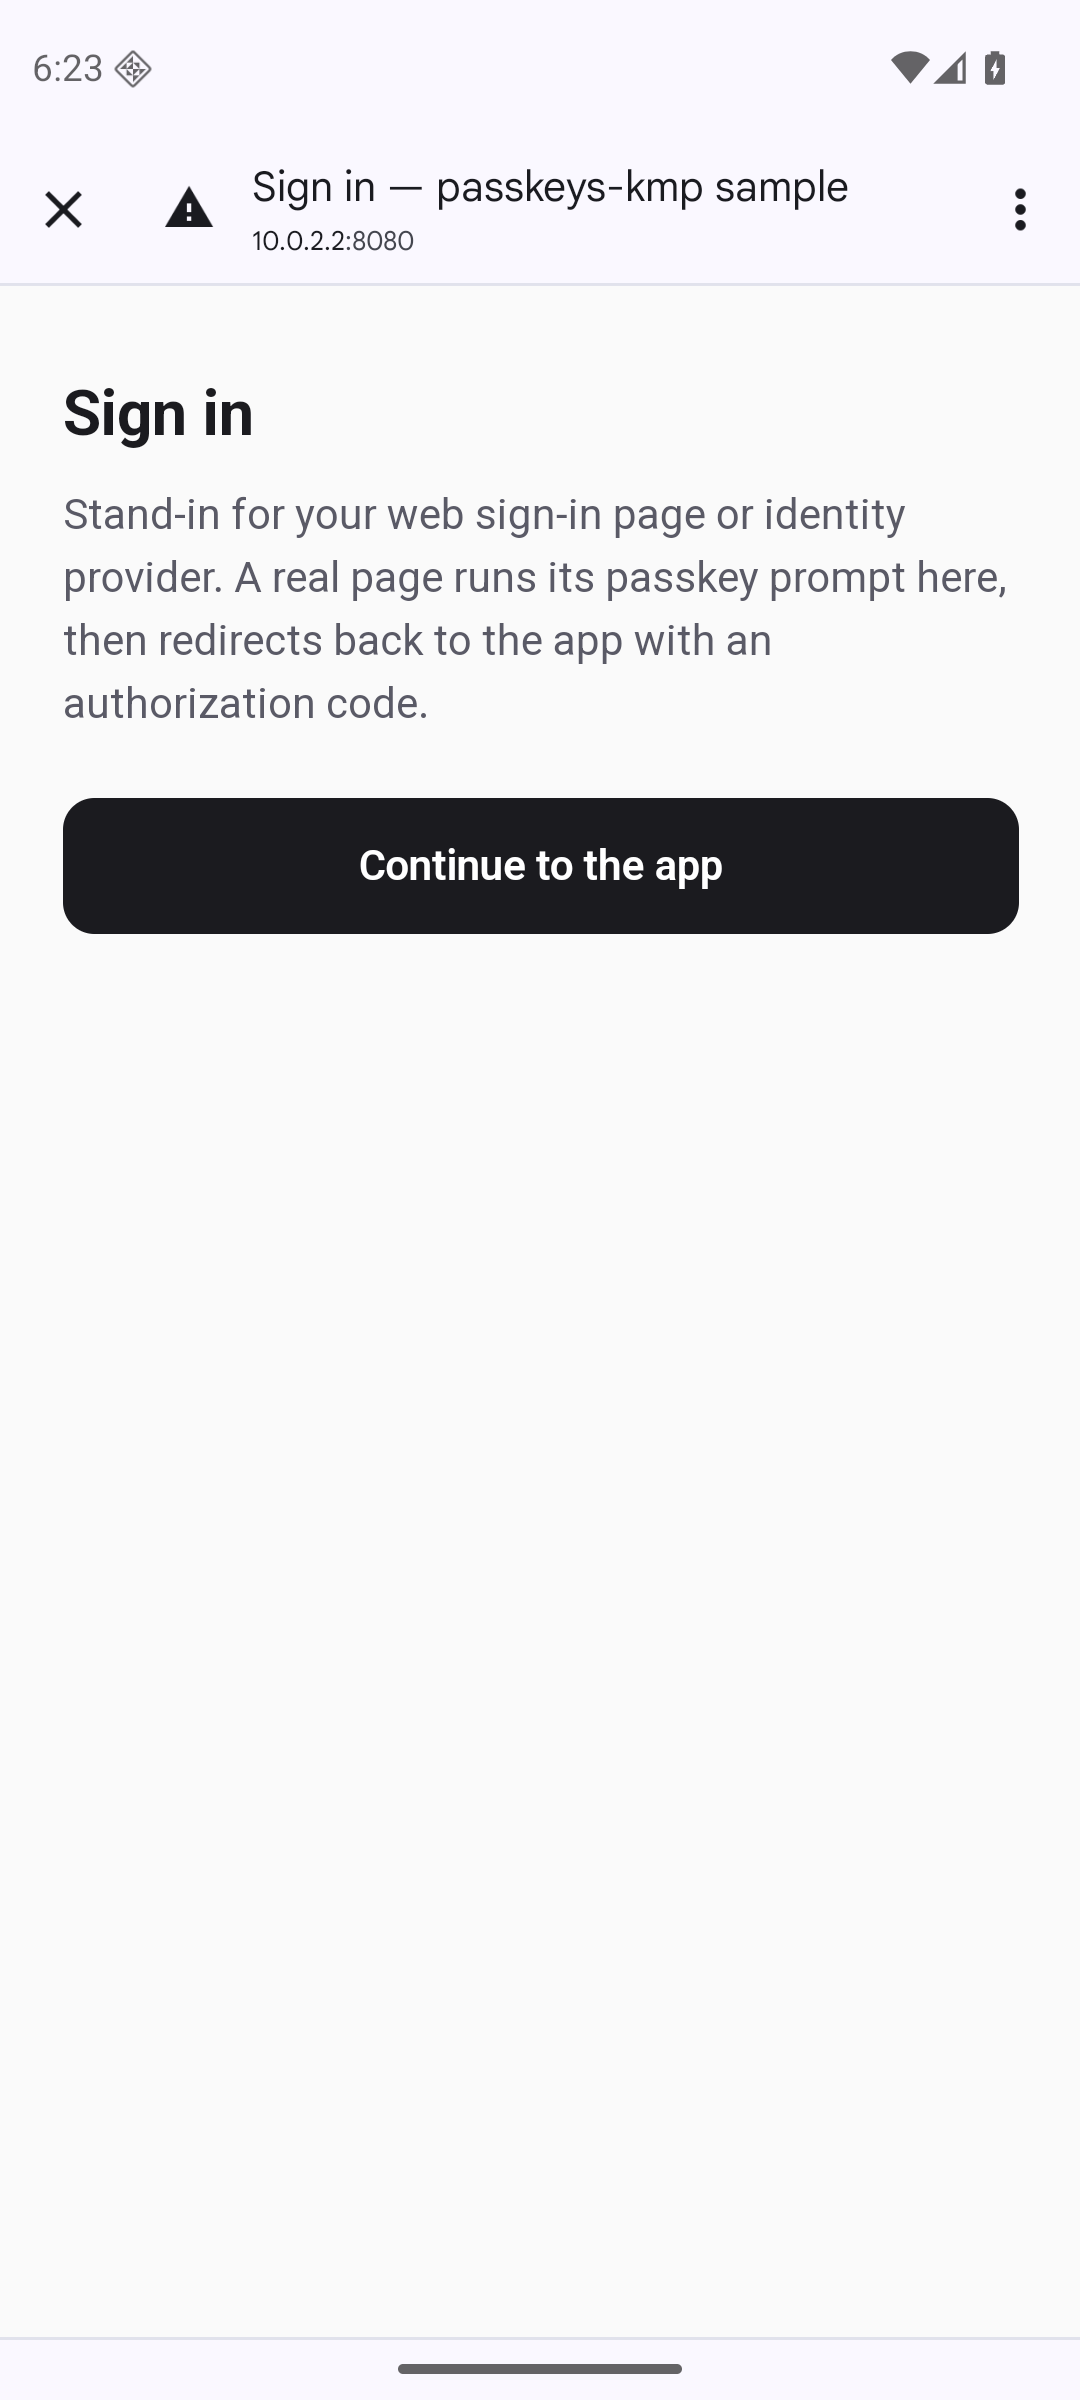
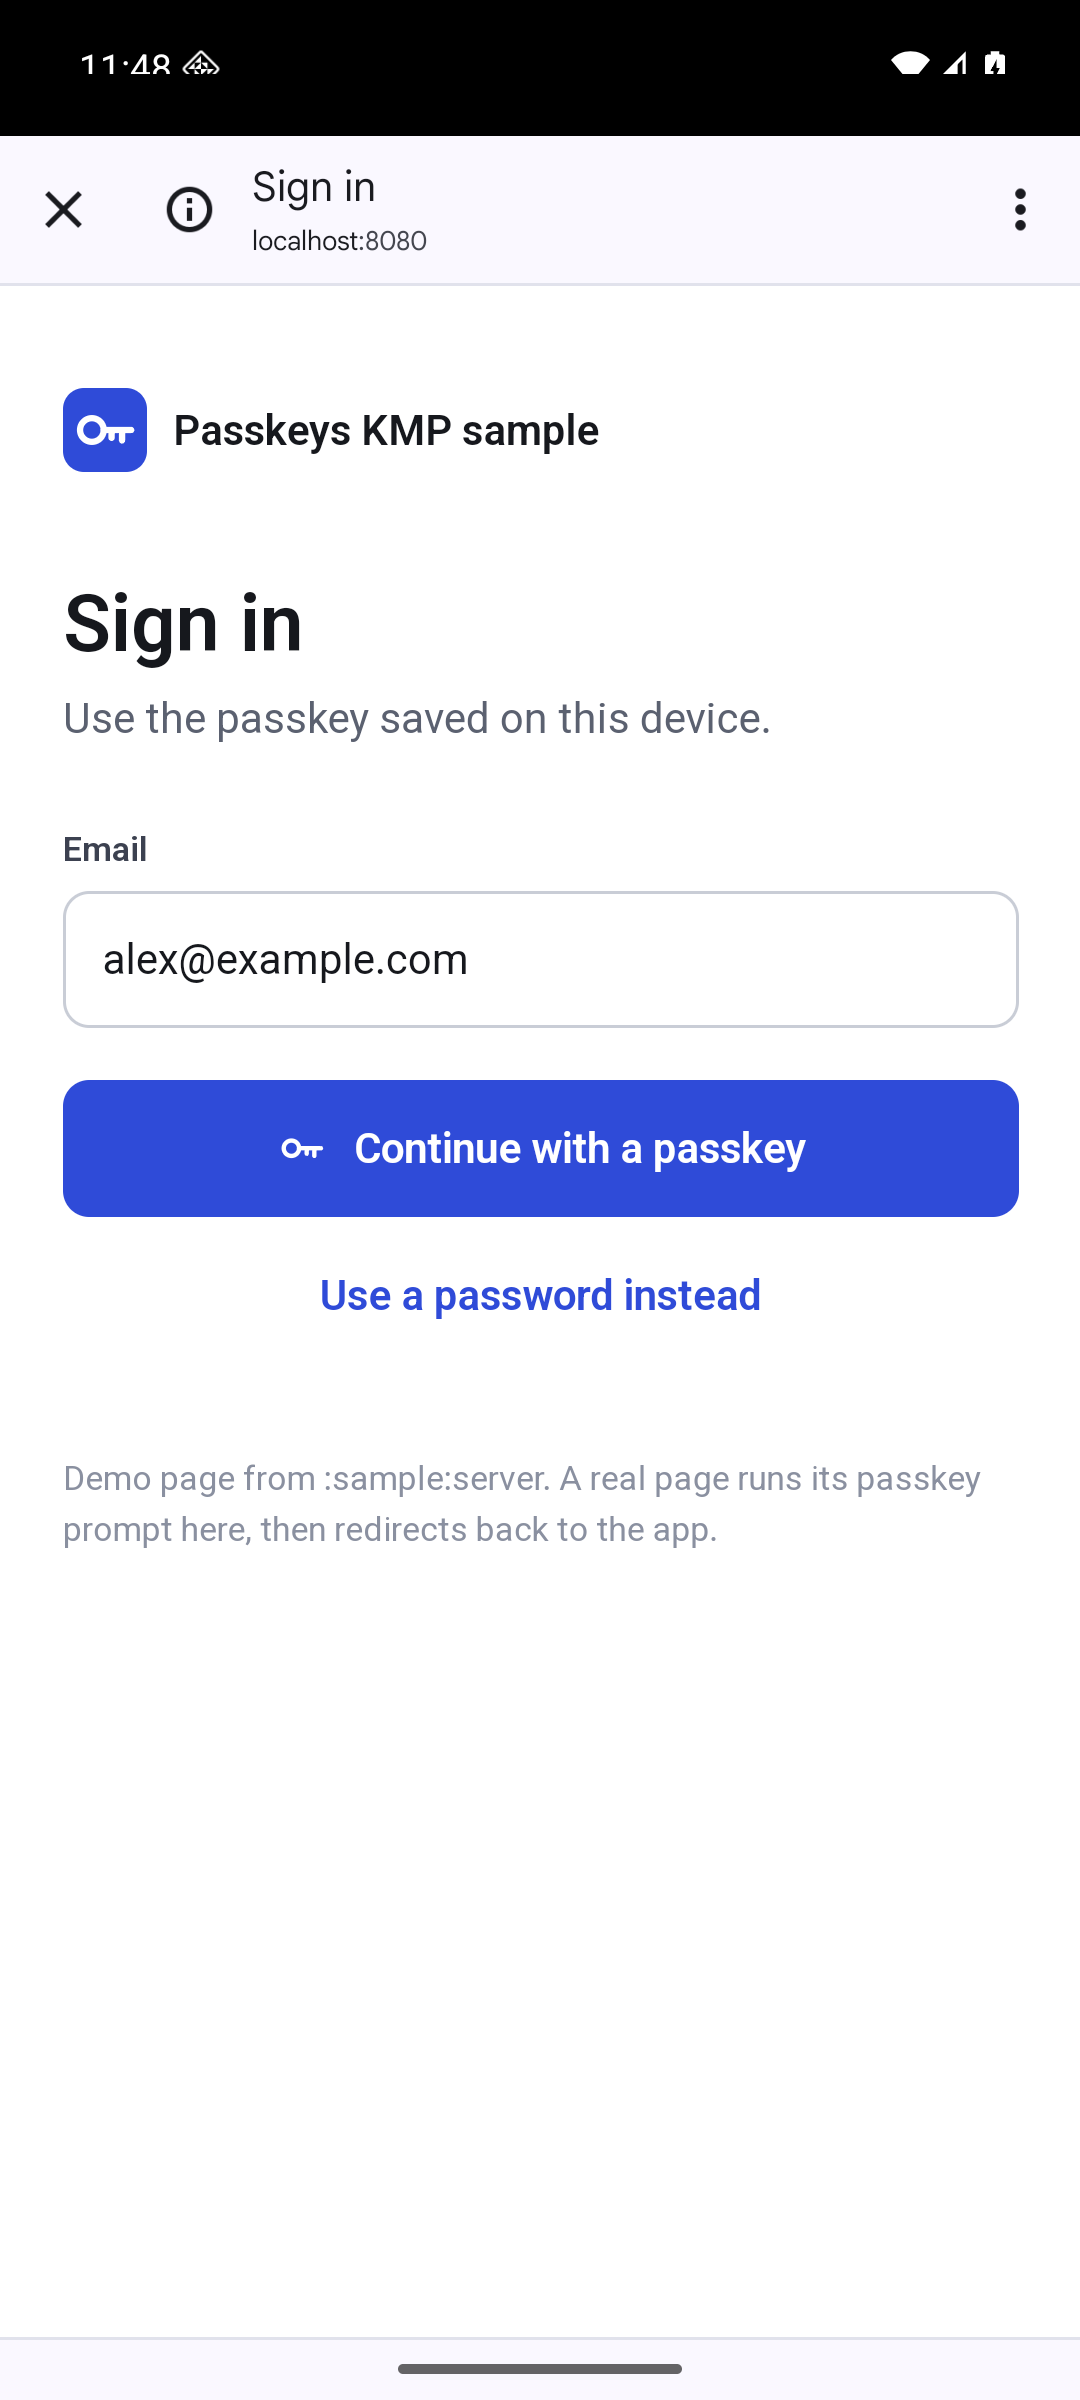
sample: realistic sign-in page, full-screen WebView demo, clearer screenshots

diff --git a/sample/composeApp/src/androidMain/kotlin/io/github/androidpoet/passkeys/composeapp/WebDemos.android.kt b/sample/composeApp/src/androidMain/kotlin/io/github/androidpoet/passkeys/composeapp/WebDemos.android.kt
@@ -4,33 +4,44 @@ import android.annotation.SuppressLint
 import android.webkit.WebView
 import android.webkit.WebViewClient
 import androidx.activity.ComponentActivity
+import androidx.compose.foundation.layout.Column
+import androidx.compose.foundation.layout.Row
+import androidx.compose.foundation.layout.fillMaxSize
 import androidx.compose.foundation.layout.fillMaxWidth
-import androidx.compose.foundation.layout.height
+import androidx.compose.foundation.layout.padding
+import androidx.compose.foundation.layout.safeDrawingPadding
 import androidx.compose.material3.Button
+import androidx.compose.material3.HorizontalDivider
 import androidx.compose.material3.MaterialTheme
+import androidx.compose.material3.Surface
 import androidx.compose.material3.Text
+import androidx.compose.material3.TextButton
 import androidx.compose.runtime.Composable
 import androidx.compose.runtime.getValue
 import androidx.compose.runtime.mutableStateOf
 import androidx.compose.runtime.remember
 import androidx.compose.runtime.setValue
+import androidx.compose.ui.Alignment
 import androidx.compose.ui.Modifier
 import androidx.compose.ui.platform.LocalContext
 import androidx.compose.ui.unit.dp
 import androidx.compose.ui.viewinterop.AndroidView
+import androidx.compose.ui.window.Dialog
+import androidx.compose.ui.window.DialogProperties
 import io.github.androidpoet.passkeys.PasskeyResult
 import io.github.androidpoet.passkeys.authsession.AndroidWebAuthSession
 import io.github.androidpoet.passkeys.authsession.WebAuthRedirect
 import io.github.androidpoet.passkeys.webview.enablePasskeys
 
-// 10.0.2.2 is the emulator's alias for the host machine running :sample:server.
-private const val SERVER = "http://10.0.2.2:8080"
+// Reach :sample:server on the host with `adb reverse tcp:8080 tcp:8080`. Localhost also
+// counts as a secure context, which WebAuthn requires.
+private const val SIGN_IN_URL = "http://localhost:8080/auth.html"
 
 @Composable
 actual fun rememberWebSignIn(): (suspend () -> PasskeyResult<String>)? {
     val activity = LocalContext.current as ComponentActivity
     val session = remember(activity) { AndroidWebAuthSession(activity) }
-    return { session.authenticate("$SERVER/auth.html", WebAuthRedirect.CustomScheme(AUTH_REDIRECT_SCHEME)) }
+    return { session.authenticate(SIGN_IN_URL, WebAuthRedirect.CustomScheme(AUTH_REDIRECT_SCHEME)) }
 }
 
 @SuppressLint("SetJavaScriptEnabled")
@@ -38,23 +49,46 @@ actual fun rememberWebSignIn(): (suspend () -> PasskeyResult<String>)? {
 @Composable
 actual fun PlatformDemos() {
     var open by remember { mutableStateOf(false) }
-    var passkeysEnabled by remember { mutableStateOf<Boolean?>(null) }
 
-    Button(onClick = { open = !open }, modifier = Modifier.fillMaxWidth()) {
-        Text(if (open) "Close WebView" else "Open sign-in page in a WebView")
+    Button(onClick = { open = true }, modifier = Modifier.fillMaxWidth()) {
+        Text("Open sign-in page in a WebView")
     }
-    if (open) {
-        Text("WebView.enablePasskeys() returned $passkeysEnabled", style = MaterialTheme.typography.bodyMedium)
-        AndroidView(
-            factory = { context ->
-                WebView(context).apply {
-                    settings.javaScriptEnabled = true
-                    webViewClient = WebViewClient()
-                    passkeysEnabled = enablePasskeys()
-                    loadUrl(SERVER)
+    if (!open) return
+
+    Dialog(onDismissRequest = { open = false }, properties = DialogProperties(usePlatformDefaultWidth = false)) {
+        var passkeysEnabled by remember { mutableStateOf<Boolean?>(null) }
+        Surface(modifier = Modifier.fillMaxSize()) {
+            Column(modifier = Modifier.fillMaxSize().safeDrawingPadding()) {
+                Row(
+                    modifier = Modifier.fillMaxWidth().padding(start = 20.dp, end = 8.dp, top = 8.dp, bottom = 8.dp),
+                    verticalAlignment = Alignment.CenterVertically,
+                ) {
+                    Column(modifier = Modifier.weight(1f)) {
+                        Text("Your page in a WebView", style = MaterialTheme.typography.titleMedium)
+                        Text(
+                            when (passkeysEnabled) {
+                                true -> "Passkeys enabled for this page"
+                                false -> "This WebView is too old for passkeys"
+                                null -> "Loading…"
+                            },
+                            style = MaterialTheme.typography.bodySmall,
+                        )
+                    }
+                    TextButton(onClick = { open = false }) { Text("Close") }
                 }
-            },
-            modifier = Modifier.fillMaxWidth().height(460.dp),
-        )
+                HorizontalDivider()
+                AndroidView(
+                    factory = { context ->
+                        WebView(context).apply {
+                            settings.javaScriptEnabled = true
+                            webViewClient = WebViewClient()
+                            passkeysEnabled = enablePasskeys()
+                            loadUrl(SIGN_IN_URL)
+                        }
+                    },
+                    modifier = Modifier.fillMaxSize(),
+                )
+            }
+        }
     }
 }

diff --git a/sample/server/src/main/resources/static/auth.html b/sample/server/src/main/resources/static/auth.html
@@ -3,18 +3,37 @@
 <head>
   <meta charset="utf-8">
   <meta name="viewport" content="width=device-width, initial-scale=1">
-  <title>Sign in — passkeys-kmp sample</title>
+  <title>Sign in</title>
   <style>
-    body { font: 16px/1.5 system-ui, sans-serif; margin: 0; padding: 32px 24px; color: #1b1b1f; background: #fafafa; }
-    h1 { font-size: 24px; margin: 0 0 8px; }
-    p { color: #5a5a66; margin: 0 0 24px; }
-    a.button { display: block; text-align: center; padding: 14px; border-radius: 12px; background: #1b1b1f; color: #fff; text-decoration: none; font-weight: 600; }
+    :root { color-scheme: light; }
+    * { box-sizing: border-box; }
+    body { font: 16px/1.5 system-ui, -apple-system, "Segoe UI", Roboto, sans-serif; margin: 0; padding: 40px 24px; color: #16181d; background: #ffffff; }
+    .brand { display: flex; align-items: center; gap: 10px; font-weight: 600; margin-bottom: 40px; }
+    .brand svg { width: 32px; height: 32px; }
+    h1 { font-size: 30px; line-height: 1.2; font-weight: 600; margin: 0 0 6px; }
+    .lead { color: #5b6170; margin: 0 0 28px; }
+    label { display: block; font-size: 13px; font-weight: 600; color: #3c4150; margin-bottom: 6px; }
+    input { width: 100%; font: inherit; padding: 13px 14px; border: 1.5px solid #c9cdd6; border-radius: 10px; margin-bottom: 20px; background: #fff; color: inherit; }
+    .primary { display: flex; align-items: center; justify-content: center; gap: 10px; width: 100%; padding: 14px; border: 0; border-radius: 10px; background: #2f4bd8; color: #fff; font: inherit; font-weight: 600; text-decoration: none; }
+    .primary svg { width: 20px; height: 20px; }
+    .secondary { display: block; text-align: center; margin-top: 18px; color: #2f4bd8; font-weight: 600; text-decoration: none; }
+    footer { margin-top: 48px; font-size: 13px; color: #8a90a0; }
   </style>
 </head>
 <body>
+  <div class="brand">
+    <svg viewBox="0 0 32 32" aria-hidden="true"><rect width="32" height="32" rx="8" fill="#2f4bd8"/><circle cx="11" cy="16" r="4.5" fill="none" stroke="#fff" stroke-width="2.4"/><path d="M15.5 16H26m-3.5 0v4m-4-4v3" fill="none" stroke="#fff" stroke-width="2.4" stroke-linecap="round"/></svg>
+    Passkeys KMP sample
+  </div>
   <h1>Sign in</h1>
-  <p>Stand-in for your web sign-in page or identity provider. A real page runs its passkey
-     prompt here, then redirects back to the app with an authorization code.</p>
-  <a class="button" href="passkeys-sample://callback?code=demo-code">Continue to the app</a>
+  <p class="lead">Use the passkey saved on this device.</p>
+  <label for="email">Email</label>
+  <input id="email" type="email" value="alex@example.com" autocomplete="username webauthn">
+  <a class="primary" href="passkeys-sample://callback?code=demo-code">
+    <svg viewBox="0 0 24 24" aria-hidden="true"><circle cx="7.5" cy="12" r="3.5" fill="none" stroke="currentColor" stroke-width="2"/><path d="M11 12h10m-3 0v3.5m-3.5-3.5v2.5" fill="none" stroke="currentColor" stroke-width="2" stroke-linecap="round"/></svg>
+    Continue with a passkey
+  </a>
+  <a class="secondary" href="passkeys-sample://callback?code=demo-code">Use a password instead</a>
+  <footer>Demo page from :sample:server. A real page runs its passkey prompt here, then redirects back to the app.</footer>
 </body>
 </html>

diff --git a/README.md b/README.md
@@ -222,7 +222,7 @@ The sample app running both modules against `:sample:server`:
 
 | Android — Auth Tab | iOS — web authentication session | Android — WebView |
 | :---: | :---: | :---: |
-| <img src="art/screenshots/android-auth-session.png" alt="Sign-in page open in an Android Auth Tab" width="240"/> | <img src="art/screenshots/ios-auth-session.png" alt="Sign-in page open in an iOS web authentication session sheet" width="240"/> | <img src="art/screenshots/android-webview.png" alt="Sample app showing a web page in a WebView with passkeys enabled" width="240"/> |
+| <img src="art/screenshots/android-auth-session.png" alt="Sign-in page open in an Android Auth Tab" width="240"/> | <img src="art/screenshots/ios-auth-session.png" alt="Sign-in page open in an iOS web authentication session sheet" width="240"/> | <img src="art/screenshots/android-webview.png" alt="The same sign-in page inside the app's own WebView with passkeys enabled" width="240"/> |
 
 ## Server (Relying Party)
 
@@ -287,8 +287,9 @@ passkeysSampleBundleId=com.your.app
 
 A browser demo lives in `:sample:web`.
 
-The sample's "Web sign-in" and WebView buttons talk to the local demo server, so start it
-first with `./gradlew :sample:server:run` (Android emulator or iOS simulator).
+The sample's "Web sign-in" and WebView buttons open the demo sign-in page from the local
+server. Start it with `./gradlew :sample:server:run`; on Android also forward the port with
+`adb reverse tcp:8080 tcp:8080`.
 
 ## Build & test
 
